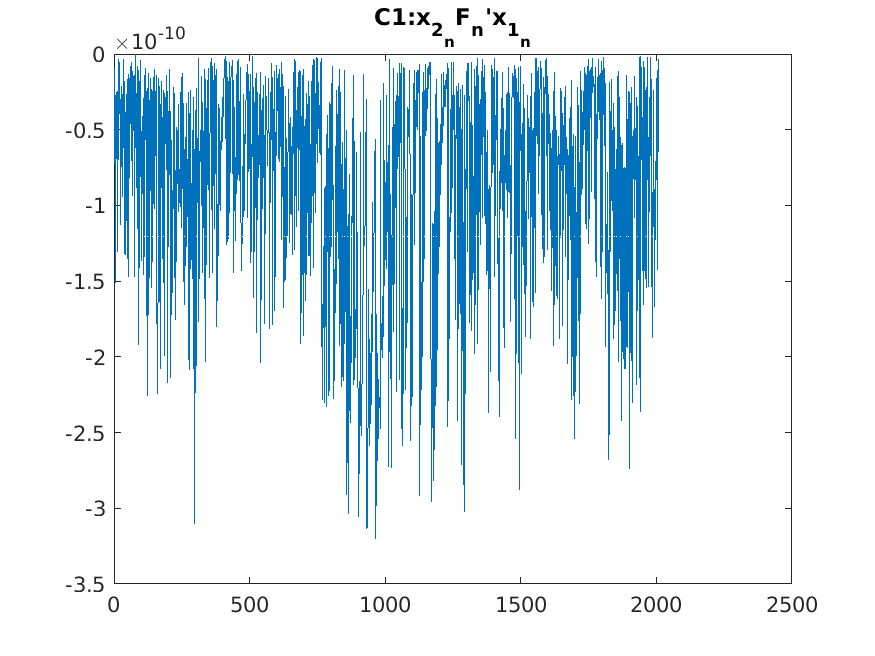
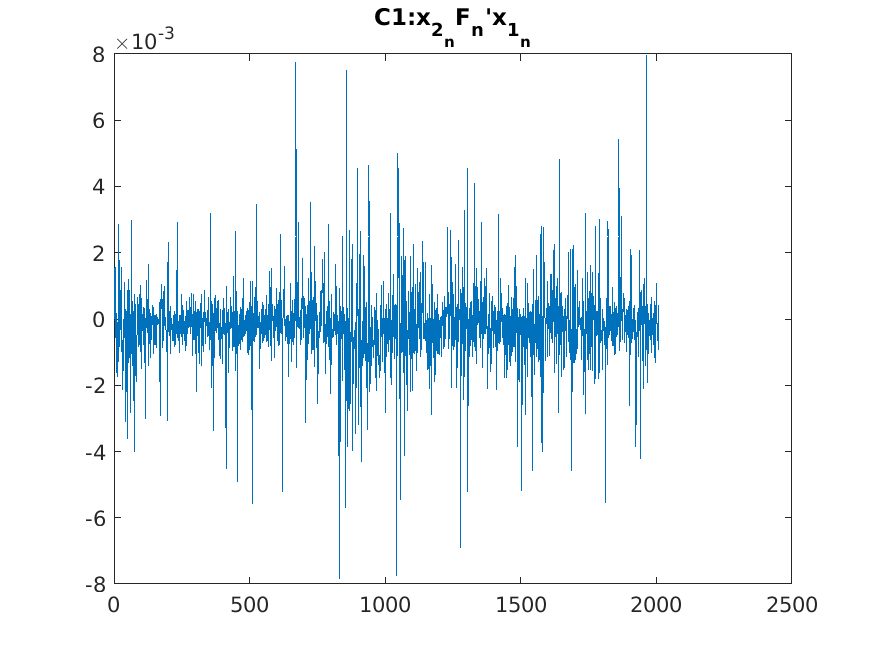
A3 update c1

diff --git a/assignment/A3/run2.m b/assignment/A3/run2.m
@@ -6,51 +6,49 @@ addpath ./data/
 addpath ./code/
 
 load data/compEx1data.mat
+load data/compEx2data.mat
 
 img_1= imread("data/kronan1.JPG");
 img_2 = imread('data/kronan2.JPG');
 
 
-% with normalization
-% 
-N_1 = buildN(x{1})
-N_2 = buildN(x{2})
+N_1 = inv(K)
+N_2 = inv(K)
 
-% without normalization
-% N_1 = [1 0 0; 0 1 0; 0 0 1];
-% N_2 = [1 0 0; 0 1 0; 0 0 1];
 
 % normalize x with N1 and N2
 x_1_n = N_1 * x{1};
-x_2_n = N_2 * x{2};
+x_2_n = N_1 * x{1};
 
 % debug code start
 mean_before = mean(x{1}(1:2,:),2)
 mean_after = mean(x_1_n(1:2,:),2)
 % debug code end
 
-[M,U,S,V,F_n] = estimate_F_DLT(x_1_n,x_2_n);
+[M,U,S,V,E_n] = estimate_F_DLT(x_1_n,x_2_n);
 % the minimal singular value of M
 minimum_s = S(9:9)
 
-det_F_n = det(F_n)
+% check |Mv|
+sqare_norm_Mv= norm(M*V(:,end)).^2
 
-bF_n = enforce_fundamental(F_n);
+det_E_n = det(E_n)
 
-det_bF_n = det(bF_n)
+bE_n = enforce_essential(E_n);
 
-plot(diag(x_2_n'*bF_n*x_1_n));
-title("C1:x_{2_n}F_n'x_{1_n}");
-saveas(gcf,"c1_1.png");
+det_bE_n = det(bE_n)
+
+plot(diag(x_2_n'*bE_n*x_1_n));
+title("C2:x_{2_n}E_n'x_{1_n}");
+saveas(gcf,"c2_1.png");
 
 % compute the un_normalized fundamental matrix F
-F = N_2'*bF_n*N_1
+F = N_2'*bE_n*N_1
 plot(diag(x{2}'*F*x{1}));
 title("C1:x_{2}F'x_{1}");
-saveas(gcf,"c1_2.png");
+saveas(gcf,"c2_2.png");
 
 l = F*x{1};
-%l = l./sqrt(repmat(l(1,:).^2 +l(2,:).^2,[3 1]));
 
 random_index = randperm(size(x{2},2),20);
 imshow(img_2)
@@ -59,7 +57,7 @@ plot(x{2}(1,random_index),x{2}(2,random_index), '*', 'Color','r');
 rital(l(:,random_index));
 hold off
 title("C1:random 20 points and epipolar lines");
-saveas(gcf,"c1_3.png");
+saveas(gcf,"c2_3.png");
 
 % compute error and plot in a historgram
 errors_n = compute_epipolar_errors(F,x{1},x{2});
@@ -67,5 +65,5 @@ errors_n = compute_epipolar_errors(F,x{1},x{2});
 mean_error_n = mean(errors_n)
 hist(errors_n,100);
 title("C1: distance between all the points and their corresponding epipolar lines");
-saveas(gcf,"c1_4.png");
+saveas(gcf,"c2_4.png");
 

diff --git a/assignment/A3/code/estimate_F_DLT.m b/assignment/A3/code/estimate_F_DLT.m
@@ -1,14 +1,14 @@
-function [S,F] = estimate_F_DLT(x1s,x2s)
+function [M,U,S,V,F] = estimate_F_DLT(x1s,x2s)
 %ESTIMATE_F_DLT Summary of this function goes here
 %   Detailed explanation goes here
     
     M=[];
     for i=1:size(x1s,2)
         M = [M; ...
-            reshape(x2s(:,i)*x1s(:,i)',[1,9]); ...
+            reshape((x2s(:,i)*x1s(:,i)')',[1,9]); ...
             ];
     end 
     [U,S,V] = svd(M);
-    F = reshape(V(:,end),[3,3]);
+    F = reshape(V(:,end),[3,3])';
 end
 

diff --git a/assignment/A3/code/enforce_essential.m b/assignment/A3/code/enforce_essential.m
@@ -1,0 +1,12 @@
+function bE = enforce_essential(E)
+%ENFORCE_FUNDAMENTAL Summary of this function goes here
+%   Detailed explanation goes here
+    [U,S,V] = svd(E);
+    s= (S(1,1)+S(2,2))/2;
+    S= diag([s s 0]);
+    if det(U*V') < 0
+        V=-V;
+    end 
+    bE= U*S*V';
+end
+

diff --git a/assignment/A3/code/compute_epipolar_errors.m b/assignment/A3/code/compute_epipolar_errors.m
@@ -5,4 +5,3 @@ function errors = compute_epipolar_errors(F,x1s,x2s)
     l = l./sqrt(repmat(l(1,:).^2 +l(2,:).^2,[3 1]));
     errors = abs(sum(l.*x2s));
 end
-
